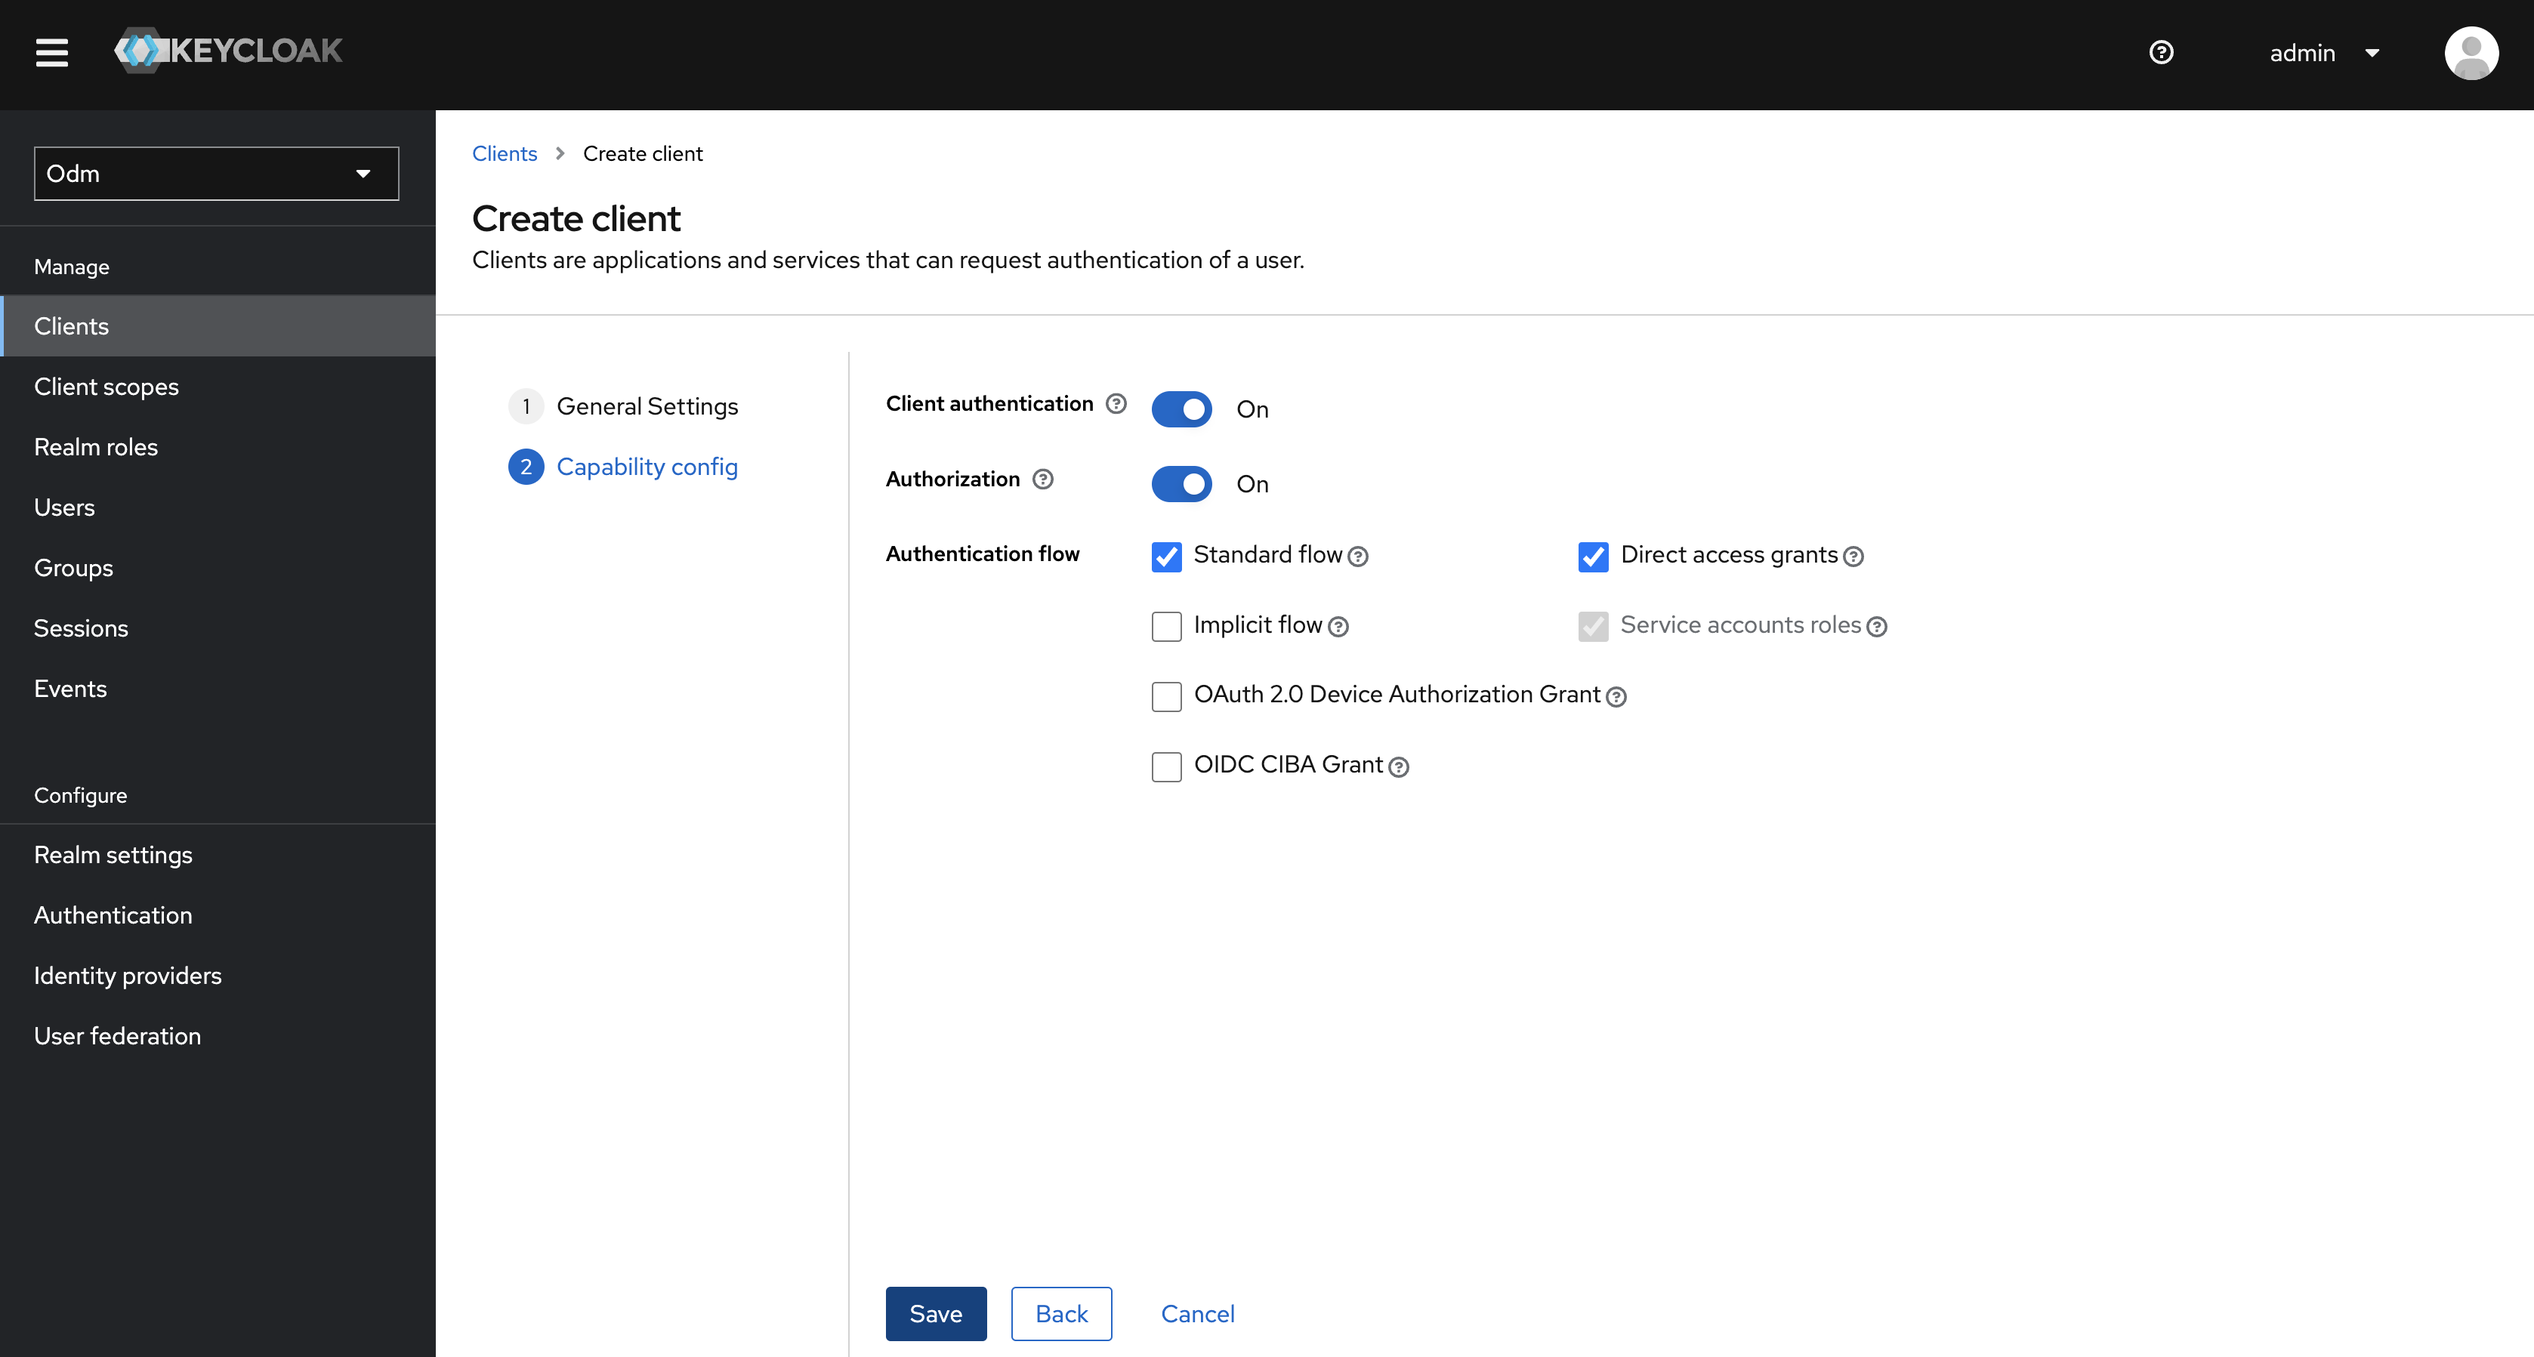
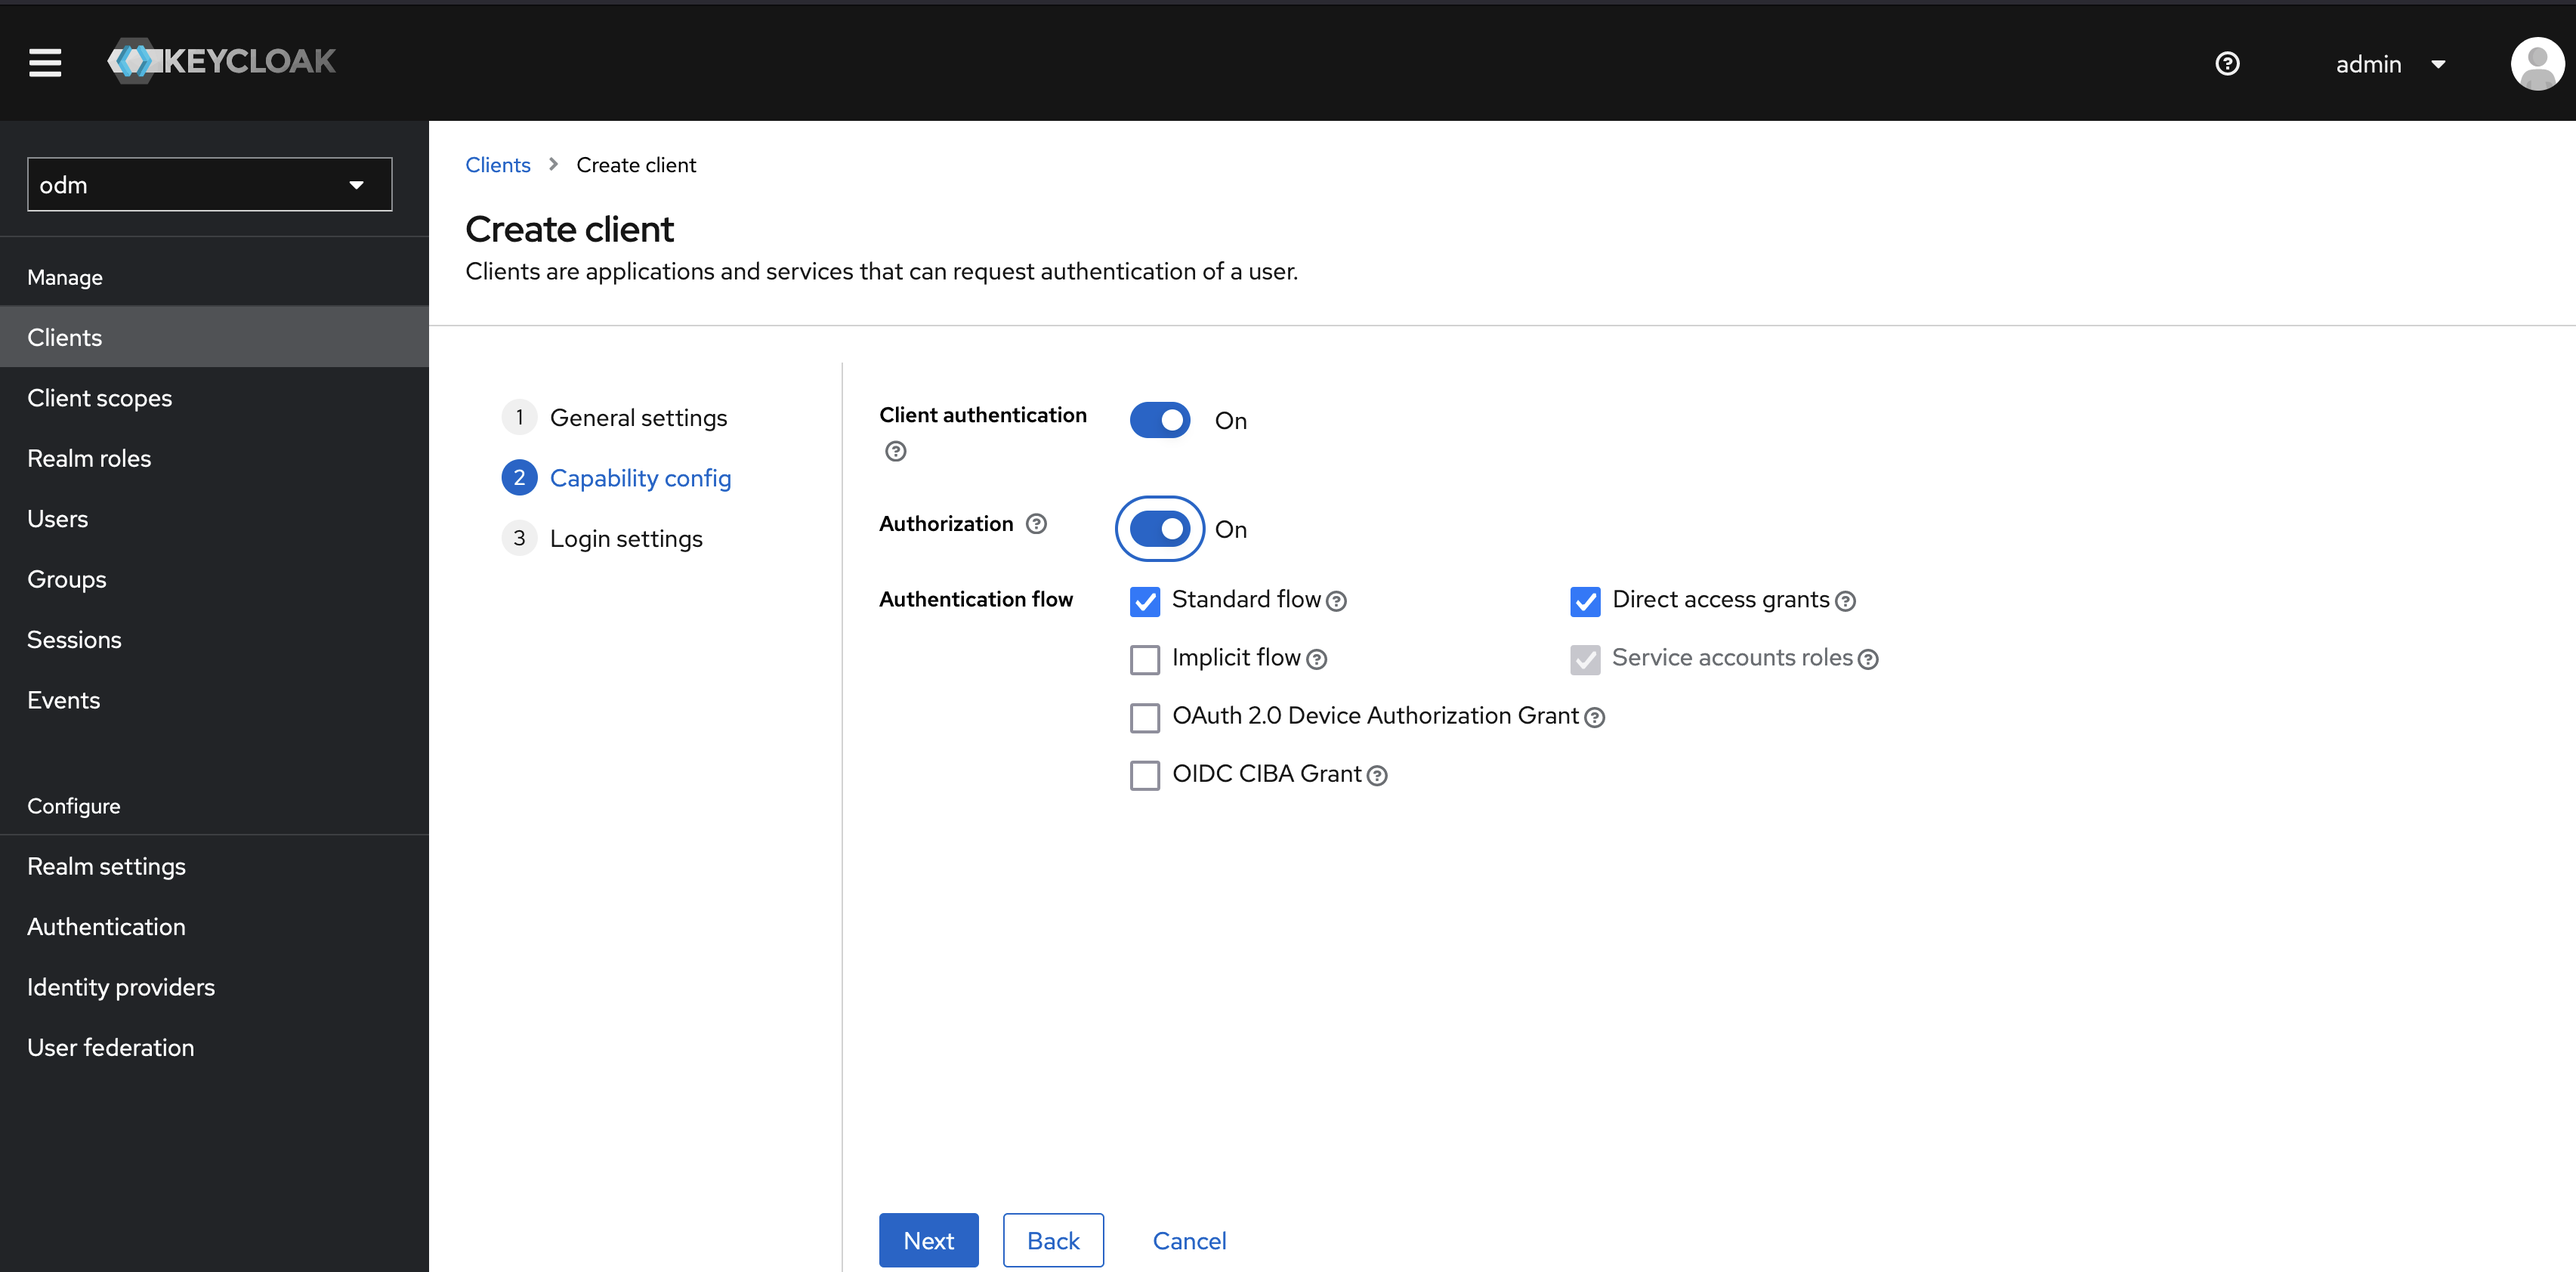
Updates README and images wrt keycloak 24.0.3. Patched keycloak-odm-script.zip

diff --git a/authentication/Keycloak/README.md b/authentication/Keycloak/README.md
@@ -93,7 +93,7 @@ You need the following elements:
 
 ### Install a Keycloak instance
 
-We have tested with a Keycloak instance (version 21.1.1)  that is installed on Openshift.  The installation procedure can be found at [Get started with Keycloak on Openshift](https://www.keycloak.org/getting-started/getting-started-openshift).
+We have tested with a Keycloak instance (version 24.0.3)  that is installed on Openshift.  The installation procedure can be found at [Get started with Keycloak on Openshift](https://www.keycloak.org/getting-started/getting-started-openshift).
 If you already have an Openshift cluster, you can skip the section [Before you start](https://www.keycloak.org/getting-started/getting-started-openshift#_before_you_start) and use the following steps:
 
 - oc login to your cluster
@@ -191,8 +191,8 @@ You can also create groups and do a mapping between groups and roles. This way, 
 
     In Menu **Manage** / **Users**:
       * Click **Create new user**
-        * Username: ``johndoe@mycompany.com``
-        * Email: ``johndoe@mycompany.com``
+        * Username: ``johndoe@mynicecompany.com``
+        * Email: ``johndoe@mynicecompany.com``
         * Email Verified: On
         * First name: ``John``
         * Last name: ``Doe``
@@ -238,9 +238,12 @@ You can also create groups and do a mapping between groups and roles. This way, 
     * Click **Next**
     * Client Authentication: On
     * Authorization: On
-    * Click *Save*
 
     ![Create Client 2](images/create_client_2.png)
+
+    * Click **Next** to go to the last page and then Click *Save*
+   
+    ![Create Client 3](images/create_client_3.png)
 
     * Click **Credentials** tab
     * Take a note of the **Client secret** value. It will be referenced as ``CLIENT_SECRET`` in the next steps.
@@ -248,9 +251,9 @@ You can also create groups and do a mapping between groups and roles. This way, 
     ![Get Client Secret](images/client_secret.png)
 
     * Click **Service Account Roles** tab
-    *  Select all res* and rts* roles  in the "Available Roles" list and click on "Add selected" to move it to the "Assigned Roles" list
+    * Click the **Assign role** button. Select all res* and rts* roles in the list and click on "Assign" button.
 
-    ![Set Service Account Roles](images/service_account_roles.png)
+    ![Set Service Account Roles](images/assign_service_account_roles.png)
 
 
 2. Add the GROUPS predefined mapper on the ROLES client scope
@@ -261,8 +264,6 @@ You can also create groups and do a mapping between groups and roles. This way, 
       * Search for mapper : **groups**
       * Select **groups**
       * Click *Add*
-    * Click *Settings tab*
-    * Click *Save*
 
     ![Add group mapper](images/add_group_mapper_to_role_scope.png)
 
@@ -280,7 +281,7 @@ You can also create groups and do a mapping between groups and roles. This way, 
     7.1 Verify the Client Credentials Token
 
      You can request an access token using the Client-Credentials flow to verify the format of the token.
-     This token is used for the deployment between Decision Cennter and the Decision Server Console:
+     This token is used for the deployment between Decision Center and the Decision Server Console:
 
     ```shell
     $ ./get-client-credential-token.sh -i <CLIENT_ID> -x <CLIENT_SECRET> -n <KEYCLOAK_SERVER_URL>
@@ -288,7 +289,7 @@ You can also create groups and do a mapping between groups and roles. This way, 
 
     Where:
 
-    - *CLIENT_ID* is your ODM Application, default is **odm**, can be retrieve in the **Manage** / **Clients** menu
+    - *CLIENT_ID* is your ODM Application, default is **odm**, can be retrieved in the **Manage** / **Clients** menu
     - *CLIENT_SECRET* is listed in your ODM Application, in the **Credentials** tab
     - *KEYCLOAK_SERVER_URL* is the issuer that can be retrieved using the **OpenID Endpoint Configuration** link of the **General** tab in the **Configure**/**Realm settings** menu
 
@@ -310,18 +311,17 @@ You can also create groups and do a mapping between groups and roles. This way, 
    To check that it has been correctly taken into account, you can request an access token using the Client password flow.
    This token is used for the invocation of the ODM components like the Decision Center, Decision Server console, and the invocation of the Decision Server Runtime REST API.
 
-    ```shell
-    $ ./get-user-password-token.sh -i <CLIENT_ID> -x <CLIENT_SECRET> -n <KEYCLOAK_SERVER_URL> -u <USERNAME> -p <PASSWORD>
-    ```
+   ```shell
+   $ ./get-user-password-token.sh -i <CLIENT_ID> -x <CLIENT_SECRET> -n <KEYCLOAK_SERVER_URL> -u <USERNAME> -p <PASSWORD>
+   ```
 
    Where:
-
     - *CLIENT_ID* is your ODM Application, default is odm, can be retrieved in the **Manage** / **Clients** menu
     - *CLIENT_SECRET* is listed in your ODM Application, in the **Credentials** tab
     - *KEYCLOAK_SERVER_URL* is the issuer that can be retrieved using the **OpenID Endpoint Configuration** link of the **General** tab in the **Configure**/**Realm settings** menu
     - *USERNAME* *PASSWORD* have been created from 'Create at least one user that belongs to this new group.' section.
 
-     By introspecting the id_token value with the online tool [https://jwt.io](https://jwt.io), you should get:
+   By introspecting the id_token value with the online tool [https://jwt.io](https://jwt.io), you should get:
 
     ```
     {
@@ -355,7 +355,7 @@ You can also create groups and do a mapping between groups and roles. This way, 
 
 2. Create a pull secret by running a `kubectl create secret` command.
 
-    ```
+    ```shell
     $ kubectl create secret docker-registry icregistry-secret \
         --docker-server=cp.icr.io \
         --docker-username=cp \
@@ -375,44 +375,44 @@ You can also create groups and do a mapping between groups and roles. This way, 
 ### Create secrets to configure ODM with Keycloak
 
 
-
-1. Create a secret with the Keycloak Server certificate
+1. Create a secret with the Keycloak Server certificate.
 
     To allow ODM services to access the Keycloak Server, it is mandatory to provide the Keycloak Server certificate.
     You can create the secret as follows:
 
-    ```
+    ```shell
     keytool -printcert -sslserver <KEYCLOAK_SERVER_URL_WITHOUT_HTTPS> -rfc > keycloak.crt
     kubectl create secret generic keycloak-secret --from-file=tls.crt=keycloak.crt
     ```
     Where:
     - KEYCLOAK_SERVER_URL_WITHOUT_HTTPS is KEYCLOAK_SERVER_URL by removing https:// prefix
 
-2. Generate the ODM configuration file for Keycloak
+2. Generate the ODM configuration file for Keycloak.
 
-
-    If you have not yet done so, download the [keycloak-odm-script.zip](keycloak-odm-script.zip) file to your machine. This .zip file contains the [script](generateTemplate.sh) and the content of the [templates](templates) directory.
-    The [script](generateTemplate.sh) allows you to generate the necessary configuration files.
-    Generate the files with the following command:
-    ```
+   If you have not yet done so, download the [keycloak-odm-script.zip](keycloak-odm-script.zip) file to your machine. This .zip file contains the [script](generateTemplate.sh) and the content of the [templates](templates) directory.
+   The [script](generateTemplate.sh) allows you to generate the necessary configuration files.
+   
+   Generate the files with the following command:
+    ```shell
     ./generateTemplate.sh -i <CLIENT_ID> -x <CLIENT_SECRET> -n <KEYCLOAK_SERVER_URL> [-r <REALM_NAME> -u <USER_ID>]
     ```
 
-    Where:
+   Where:
     - *CLIENT_SECRET* is listed in your ODM Application, section **General** / **Client Credentials**
 
-    The following four files are generated into the `output` directory:
+    The following files are generated into the `output` directory:
 
-    - webSecurity.xml contains the mapping between Liberty J2EE ODM roles and Keycloak groups and users:
+    - `webSecurity.xml` contains the mapping between Liberty J2EE ODM roles and Keycloak groups and users:
       * rtsAdministrators/resAdministrators/resExecutors ODM roles are given to the CLIENT_ID (which is seen as a user) to manage the client-credentials flow
-    - openIdWebSecurity.xml contains two openIdConnectClient Liberty configurations:
-      * for web access to Decision Center an Decision Server consoles using userIdentifier="preferred_username" with the Authorization Code flow
+    - `openIdWebSecurity.xml` contains two openIdConnectClient Liberty configurations:
+      * for web access to Decision Center and Decision Server consoles using userIdentifier="preferred_username" with the Authorization Code flow
       * for the rest-api call using userIdentifier="preferred_username" with the client-credentials flow
-    - openIdParameters.properties configures several features like allowed domains, logout, and some internal ODM openid features
+    - `openIdParameters.properties` configures several features like allowed domains, logout, and some internal ODM openid features
+    - `ldap-configurations.xml` contains LDAP configuration for [How to import Keycloak Groups and Users using SCIM](README_FINE_GRAIN_PERMISSION.md)
 
-3. Create the Keycloak authentication secret
+3. Create the Keycloak authentication secret using `webSecurity.xml`, `openIdWebSecurity.xml` and `openIdParameters.properties` files. 
 
-    ```
+    ```shell
     kubectl create secret generic keycloak-auth-secret \
         --from-file=openIdParameters.properties=./output/openIdParameters.properties \
         --from-file=openIdWebSecurity.xml=./output/openIdWebSecurity.xml \
@@ -434,7 +434,7 @@ You can also create groups and do a mapping between groups and roles. This way, 
   ```shell
   helm search repo ibm-odm-prod
   NAME                  	CHART VERSION	APP VERSION	DESCRIPTION
-  ibm-helm/ibm-odm-prod	        23.1.0       	8.12.0.0   	IBM Operational Decision Manager
+  ibm-helm/ibm-odm-prod	     24.0.0       	9.0.0.0   	IBM Operational Decision Manager
   ```
 
 ### 3. Run the `helm install` command
@@ -466,7 +466,7 @@ You can now install the product. We will use the PostgreSQL internal database an
 
   When the NGINX Ingress Controller is ready, you can install the ODM release with:
 
-  ```
+  ```shell
   helm install my-odm-release ibm-helm/ibm-odm-prod \
           --set image.repository=cp.icr.io/cp/cp4a/odm --set image.pullSecrets=icregistry-secret \
           --set oidc.enabled=true \
@@ -488,7 +488,7 @@ You can now install the product. We will use the PostgreSQL internal database an
     Refer to [this documentation](https://www.ibm.com/docs/en/odm/8.12.0?topic=tasks-configuring-external-access) to retrieve the endpoints.
     For example, on OpenShift you can get the route names and hosts with:
 
-    ```
+    ```shell
     kubectl get routes --no-headers --output custom-columns=":metadata.name,:spec.host"
     ```
 
@@ -502,7 +502,7 @@ You can now install the product. We will use the PostgreSQL internal database an
 
     Using an Ingress, the endpoint is the address of the ODM ingress and is the same for all components. You can get it with:
 
-    ```
+    ```shell
     kubectl get ingress my-odm-release-odm-ingress
     ```
 
@@ -550,7 +550,7 @@ To be able to securely connect your Rule Designer to the Decision Server and Dec
 
 1. Get the following configuration files.
     * `https://<DC_HOST>/decisioncenter/assets/truststore.jks`
-    * `https://<DC_HOST>/odm/decisioncenter/assets/OdmOidcProvidersRD.json`
+    * `https://<DC_HOST>/decisioncenter/assets/OdmOidcProvidersRD.json`
       where *DC_HOST* is the Decision Center endpoint.
 
 2. Copy the `truststore.jks` and `OdmOidcProvidersRD.json` files to your Rule Designer installation directory next to the `eclipse.ini` file.
